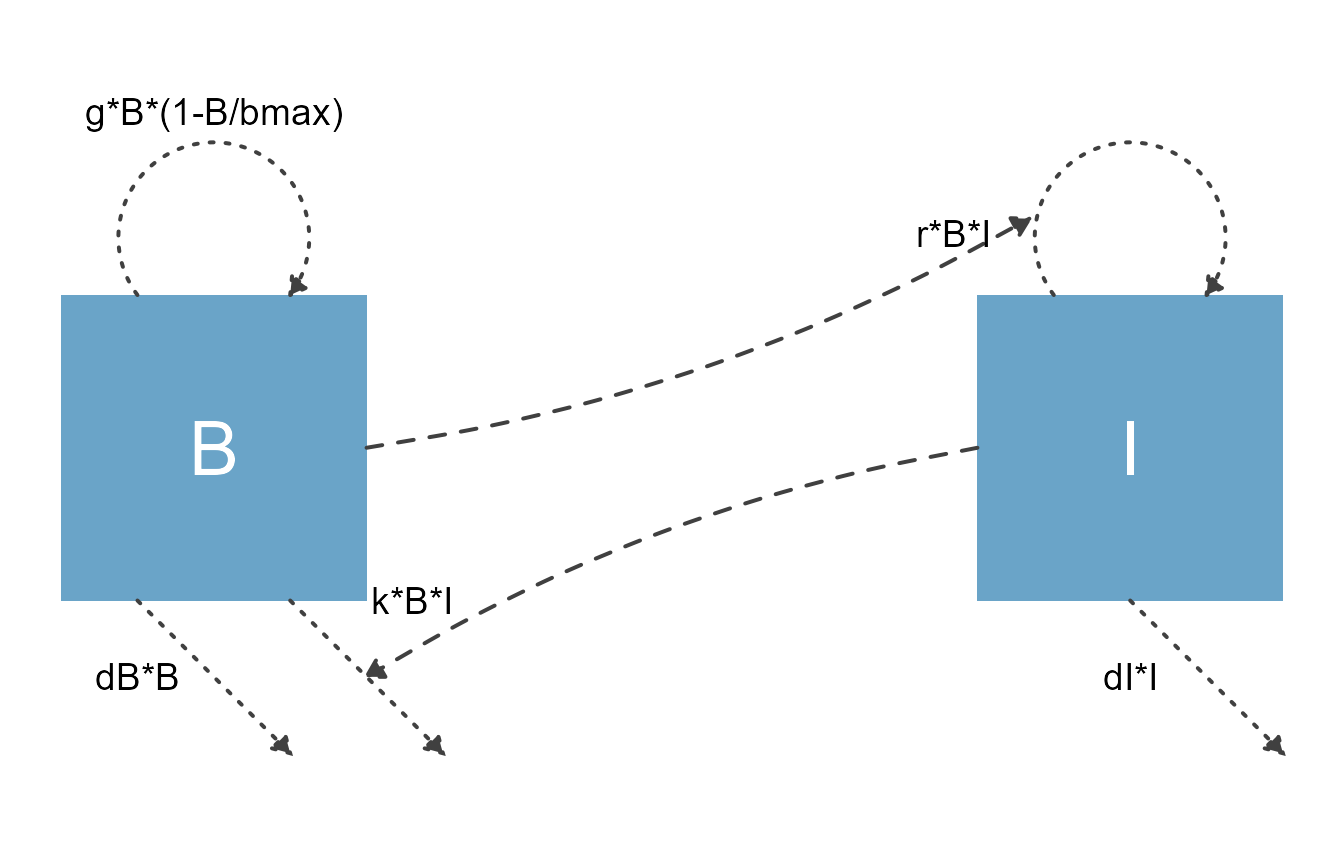
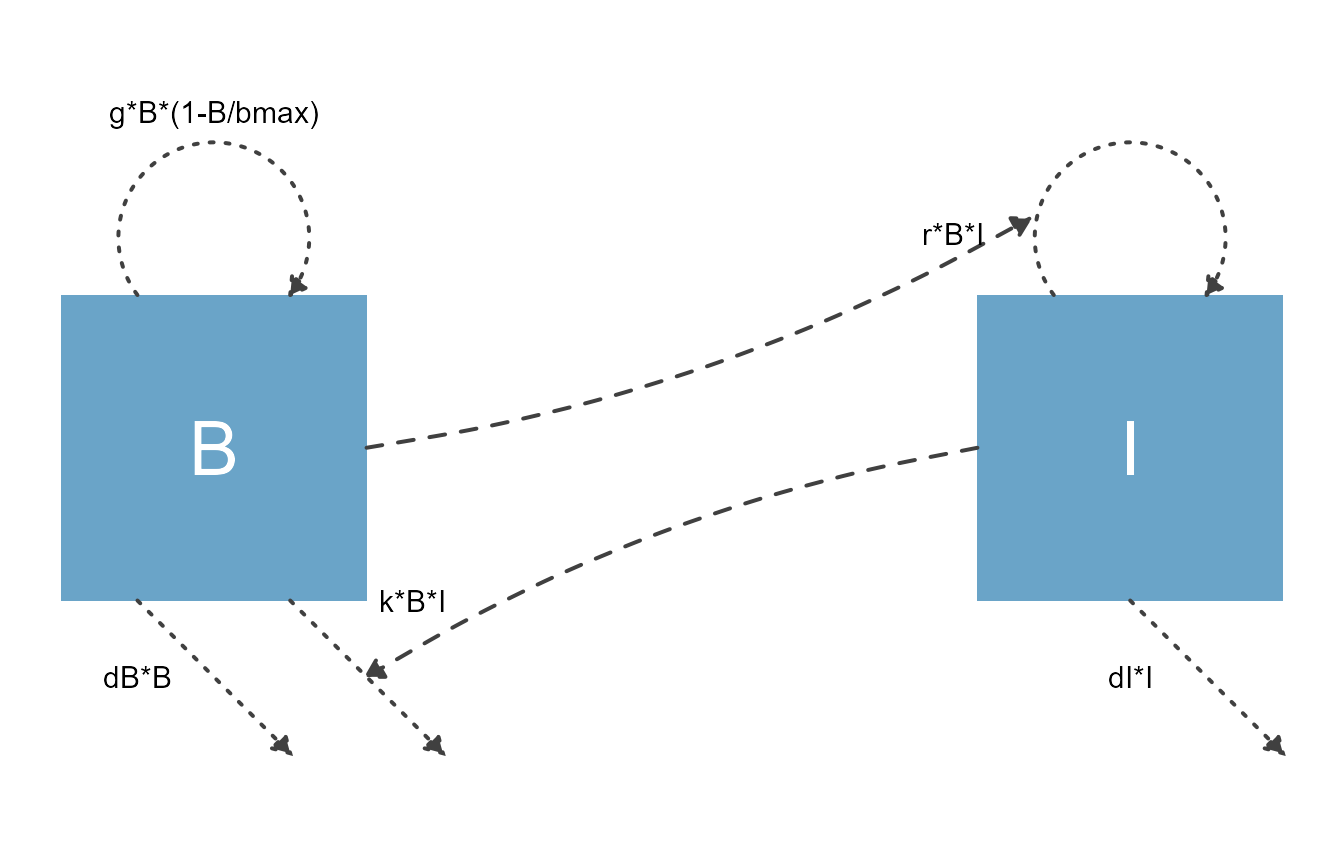
Updates website

diff --git a/docs/articles/F_non_model_diagrams.html b/docs/articles/F_non_model_diagrams.html
@@ -138,14 +138,14 @@
 <p>We’ll try to recreate a simplified version of this. First, we’ll specify the model.</p>
 <div class="sourceCode" id="cb1"><pre class="downlit">
 <span class="kw">varlabels</span> <span class="op">=</span> <span class="fu"><a href="https://rdrr.io/r/base/c.html">c</a></span>(<span class="st">"L"</span>,<span class="st">"P"</span>,<span class="st">"B"</span>,<span class="st">"Pl"</span>,<span class="st">"R"</span>,<span class="st">"Re"</span>)
-<span class="kw">varnames</span> <span class="op">=</span> <span class="fu"><a href="https://rdrr.io/r/base/c.html">c</a></span>(<span class="st">"Lamp doesn't work?"</span>,<span class="st">"Lamp plugged in?"</span>,<span class="st">"Bulb burned out?"</span>,<span class="st">"Plug in lamp"</span>,<span class="st">"Replace bulb"</span>,<span class="st">"Repair lamp"</span>)
+<span class="kw">varnames</span> <span class="op">=</span> <span class="fu"><a href="https://rdrr.io/r/base/c.html">c</a></span>(<span class="st">"Lamp doesn't work"</span>,<span class="st">"Lamp plugged in?"</span>,<span class="st">"Bulb burned out?"</span>,<span class="st">"Plug in lamp"</span>,<span class="st">"Replace bulb"</span>,<span class="st">"Repair lamp"</span>)
 
 <span class="kw">flows</span> <span class="op">=</span> <span class="fu"><a href="https://rdrr.io/r/base/list.html">list</a></span>(L_flows = <span class="fu"><a href="https://rdrr.io/r/base/c.html">c</a></span>(<span class="st">"-L"</span>), 
-             P_flows = <span class="fu"><a href="https://rdrr.io/r/base/c.html">c</a></span>(<span class="st">"L"</span>,<span class="st">"-no*P"</span>,<span class="st">"-yes*P"</span>), 
-             B_flows = <span class="fu"><a href="https://rdrr.io/r/base/c.html">c</a></span>(<span class="st">"yes*P"</span>,<span class="st">"-yes*B"</span>, <span class="st">"-no*B"</span>),
-             Pl_flows = <span class="fu"><a href="https://rdrr.io/r/base/c.html">c</a></span>(<span class="st">"no*P"</span>),
-             R_flows = <span class="fu"><a href="https://rdrr.io/r/base/c.html">c</a></span>(<span class="st">"yes*B"</span>),
-             Re_flows = <span class="fu"><a href="https://rdrr.io/r/base/c.html">c</a></span>(<span class="st">"no*B"</span>)
+             P_flows = <span class="fu"><a href="https://rdrr.io/r/base/c.html">c</a></span>(<span class="st">"L"</span>,<span class="st">"-no_P"</span>,<span class="st">"-yes_P"</span>), 
+             B_flows = <span class="fu"><a href="https://rdrr.io/r/base/c.html">c</a></span>(<span class="st">"yes_P"</span>,<span class="st">"-yes_B"</span>, <span class="st">"-no_B"</span>),
+             Pl_flows = <span class="fu"><a href="https://rdrr.io/r/base/c.html">c</a></span>(<span class="st">"no_P"</span>),
+             R_flows = <span class="fu"><a href="https://rdrr.io/r/base/c.html">c</a></span>(<span class="st">"yes_B"</span>),
+             Re_flows = <span class="fu"><a href="https://rdrr.io/r/base/c.html">c</a></span>(<span class="st">"no_B"</span>)
              )
 <span class="kw">varlocations</span> <span class="op">=</span> <span class="fu"><a href="https://rdrr.io/r/base/matrix.html">matrix</a></span>(data = <span class="fu"><a href="https://rdrr.io/r/base/c.html">c</a></span>(<span class="st">"L"</span>, <span class="st">""</span>,
                                <span class="st">"P"</span>, <span class="st">"Pl"</span>,
@@ -158,51 +158,30 @@
 <p>Now, it’s the standard steps of preparing, making and plotting the diagram.</p>
 <div class="sourceCode" id="cb2"><pre class="downlit">
 <span class="kw">diagram_list</span> <span class="op">&lt;-</span> <span class="fu"><a href="../reference/prepare_diagram.html">prepare_diagram</a></span>(<span class="kw">mymodel</span>)
-<span class="kw">my_diagram</span> <span class="op">&lt;-</span> <span class="fu"><a href="../reference/make_diagram.html">make_diagram</a></span>(<span class="kw">diagram_list</span>)
+<span class="kw">my_diagram</span> <span class="op">&lt;-</span> <span class="fu"><a href="../reference/make_diagram.html">make_diagram</a></span>(<span class="kw">diagram_list</span>, use_varnames = <span class="fl">TRUE</span>)
 <span class="fu"><a href="https://rdrr.io/r/graphics/plot.default.html">plot</a></span>(<span class="kw">my_diagram</span>)
-<span class="co">#&gt; Warning: Removed 1 rows containing missing values (geom_text).</span>
 </pre></div>
-<p><img src="F_non_model_diagrams_files/figure-html/unnamed-chunk-4-1.png" width="700"></p>
+<p><img src="F_non_model_diagrams_files/figure-html/unnamed-chunk-4-1.png" width="672"></p>
 <p>This looks similar to the original, but of course not quite as good. We can get fairly close with a few adjustments.</p>
-<div id="notes-of-things-that-need-adressing" class="section level2">
-<h2 class="hasAnchor">
-<a href="#notes-of-things-that-need-adressing" class="anchor"></a>Notes of things that need adressing</h2>
-<p>Looking at diagram_list, some things look odd:</p>
 <div class="sourceCode" id="cb3"><pre class="downlit">
-<span class="fu"><a href="https://rdrr.io/r/base/print.html">print</a></span>(<span class="kw">diagram_list</span>)
-<span class="co">#&gt; $nodes</span>
-<span class="co">#&gt;   label                 name xmin xmax ymin ymax labelx labely</span>
-<span class="co">#&gt; 1     L Lamp\ndoesn't\nwork? -0.5  0.5 -0.5  0.5      0      0</span>
-<span class="co">#&gt; 2     P   Lamp\nplugged\nin? -0.5  0.5 -2.5 -1.5      0     -2</span>
-<span class="co">#&gt; 3     B   Bulb\nburned\nout? -0.5  0.5 -4.5 -3.5      0     -4</span>
-<span class="co">#&gt; 4    Pl       Plug\nin\nlamp  2.5  3.5 -2.5 -1.5      3     -2</span>
-<span class="co">#&gt; 5     R        Replace\nbulb  2.5  3.5 -4.5 -3.5      3     -4</span>
-<span class="co">#&gt; 6    Re         Repair\nlamp -0.5  0.5 -6.5 -5.5      0     -6</span>
-<span class="co">#&gt; </span>
-<span class="co">#&gt; $horizontal_edges</span>
-<span class="co">#&gt;   to from label interaction xstart ystart xend yend labelx labely</span>
-<span class="co">#&gt; 1  P    L     L       FALSE      0   -0.5    0 -1.5   0.25     -1</span>
-<span class="co">#&gt; 2  B    P yes*P       FALSE      0   -2.5    0 -3.5   0.25     -3</span>
-<span class="co">#&gt; </span>
-<span class="co">#&gt; $vertical_edges</span>
-<span class="co">#&gt; [1] to     from   label  xstart ystart xend   yend   labelx labely</span>
-<span class="co">#&gt; &lt;0 rows&gt; (or 0-length row.names)</span>
-<span class="co">#&gt; </span>
-<span class="co">#&gt; $curved_edges</span>
-<span class="co">#&gt;   to from label interaction xstart ystart xend yend curvature labelx labely</span>
-<span class="co">#&gt; 1 Pl    P  no*P       FALSE    1.0   -1.5  2.0 -1.5       0.5   2.25  -1.55</span>
-<span class="co">#&gt; 2  R    B yes*B       FALSE    1.0   -3.5  2.0 -3.5       0.5   2.25  -3.55</span>
-<span class="co">#&gt; 3 Re    B  no*B       FALSE    0.5   -3.5 -0.5 -5.5       0.5     NA     NA</span>
-<span class="co">#&gt; </span>
-<span class="co">#&gt; $feedback_edges</span>
-<span class="co">#&gt; [1] to     from   label  xstart ystart xend   yend   labelx labely</span>
-<span class="co">#&gt; &lt;0 rows&gt; (or 0-length row.names)</span>
+<span class="kw">modified_diagram_list</span> <span class="op">&lt;-</span> <span class="kw">diagram_list</span>
+
+<span class="co"># update the flow labels</span>
+<span class="kw">modified_diagram_list</span><span class="op">$</span><span class="kw">horizontal_edges</span><span class="op">$</span><span class="kw">label</span> <span class="op">&lt;-</span> <span class="fu"><a href="https://rdrr.io/r/base/c.html">c</a></span>(<span class="st">""</span>, <span class="st">"Yes"</span>, <span class="st">"No"</span>, <span class="st">"Yes"</span>, <span class="st">"No"</span>)
+
+<span class="kw">my_diagram</span> <span class="op">&lt;-</span> <span class="fu"><a href="../reference/make_diagram.html">make_diagram</a></span>(
+  <span class="kw">modified_diagram_list</span>, 
+  use_varnames = <span class="fl">TRUE</span>, 
+  diagram_settings = <span class="fu"><a href="https://rdrr.io/r/base/list.html">list</a></span>(node_text_size = <span class="fl">3</span>,
+                          flow_text_size= <span class="fl">4</span>,
+                          node_text_color = <span class="st">"black"</span>,
+                          node_fill_color = <span class="fu"><a href="https://rdrr.io/r/base/c.html">c</a></span>(<span class="st">"pink"</span>, <span class="st">"yellow"</span>, <span class="st">"yellow"</span>,
+                                              <span class="st">"green"</span>, <span class="st">"green"</span>, <span class="st">"green"</span>),
+                          node_outline_color = <span class="st">"black"</span>))
+<span class="fu"><a href="https://rdrr.io/r/graphics/plot.default.html">plot</a></span>(<span class="kw">my_diagram</span>)
 </pre></div>
-<p>Why are all nodes classified as row = 1? Seems like the varlocation data is not properly processed?</p>
-<p>There are two flows classified as horizontal, even though they are vertical. They are drawn correctly, but should probably be in the vertical_edges element? Similarly, several flows are in the curved compartment that should be in horizontal or vertical.</p>
-<p>I assume the curved ones are classified as curved since they are not from adjacent variables if the variables are considered in order. However, the order/location is updated by providing the matrix. We thus need to compute adjacency differently if the matrix is there. Basically, if for a given variable, the flow goes to another variable that’s a neighbor located to the left/right/above/below we should have straight horizontal/vertical edges. if connection is to a variable that is a “corner neighbor” 45 degrees away, we should probably do a straight arrow at 45 degrees. curved if the variable is not a neighbor (i.e not +/- 1 row/column).</p>
-<p>The final arrow is not labeled. I can’t figure out why, label shows up ok in the diagram_list object.</p>
-</div>
+<p><img src="F_non_model_diagrams_files/figure-html/unnamed-chunk-5-1.png" width="672"></p>
+<p>Now we’ve done it!</p>
 </div>
   </div>
 

diff --git a/docs/articles/G_comparison_to_other_packages.html b/docs/articles/G_comparison_to_other_packages.html
@@ -128,16 +128,12 @@
 <div id="diagram" class="section level1">
 <h1 class="hasAnchor">
 <a href="#diagram" class="anchor"></a>diagram</h1>
-<p>Most similar to ours. Not ggplot.</p>
+<p>The <strong>diagram</strong> package (<a href="https://cran.r-project.org/web/packages/diagram/index.html" class="uri">https://cran.r-project.org/web/packages/diagram/index.html</a>) is most similar to <strong>flowdiagramr</strong>. The largest difference is that <strong>flowdiagramr</strong> uses <strong>ggplot2</strong> as the graphing engine, rather than base R. This means that <strong>flowdiagramr</strong> relies on the data frame structure of <strong>ggplot2</strong>, which is rapidly becoming common for most applications. Thus, <strong>flowdiagramr</strong> is the “ggplot2 version” of <strong>diagram</strong>.</p>
 </div>
 <div id="diagrammer" class="section level1">
 <h1 class="hasAnchor">
 <a href="#diagrammer" class="anchor"></a>DiagrammeR</h1>
-<p>Can’t do loops, acyclic. Requires specifying models in Mermaid or XY, non-R syntax.</p>
-</div>
-<div id="other" class="section level1">
-<h1 class="hasAnchor">
-<a href="#other" class="anchor"></a>Other</h1>
+<p>The <strong>DiagrammeR</strong> package (<a href="https://rich-iannone.github.io/DiagrammeR/" class="uri">https://rich-iannone.github.io/DiagrammeR/</a>) is the most flexible diagramming package available for R. However, it is primarily for acyclic diagrams (no feedbacks) and it requires specifying models in non-R syntax (DOT language). It also requires knowledge of Graphviz.</p>
 </div>
   </div>
 

diff --git a/docs/articles/D_modify_ggplot_code.html b/docs/articles/D_modify_ggplot_code.html
@@ -234,6 +234,7 @@
                           node_fill_color = <span class="fu"><a href="https://rdrr.io/r/base/c.html">c</a></span>(<span class="st">"#6aa4c8"</span>, <span class="st">"#eb5600"</span>),
                           node_text_color = <span class="st">"white"</span>,
                           node_text_size = <span class="fl">10</span>,
+                          flow_text_size = <span class="fl">4</span>,
                           interaction_arrow_size = <span class="fl">0.7</span>,
                           main_arrow_color = <span class="st">"grey25"</span>,
                           main_arrow_linetype = <span class="st">"dotted"</span>),

diff --git a/docs/articles/B_modify_diagrams_simple.html b/docs/articles/B_modify_diagrams_simple.html
@@ -302,7 +302,6 @@
 )
 
 <span class="fu"><a href="https://rdrr.io/r/graphics/plot.default.html">plot</a></span>(<span class="kw">diag2</span>)
-<span class="co">#&gt; Warning: Removed 1 rows containing missing values (geom_curve).</span>
 </pre></div>
 <p><img src="B_modify_diagrams_simple_files/figure-html/unnamed-chunk-12-1.png" width="672"></p>
 <p>As you can see, not showing the interactions doesn’t produce a very useful diagram, so in this (and most cases), not showing interaction terms is maybe not the best idea.</p>
